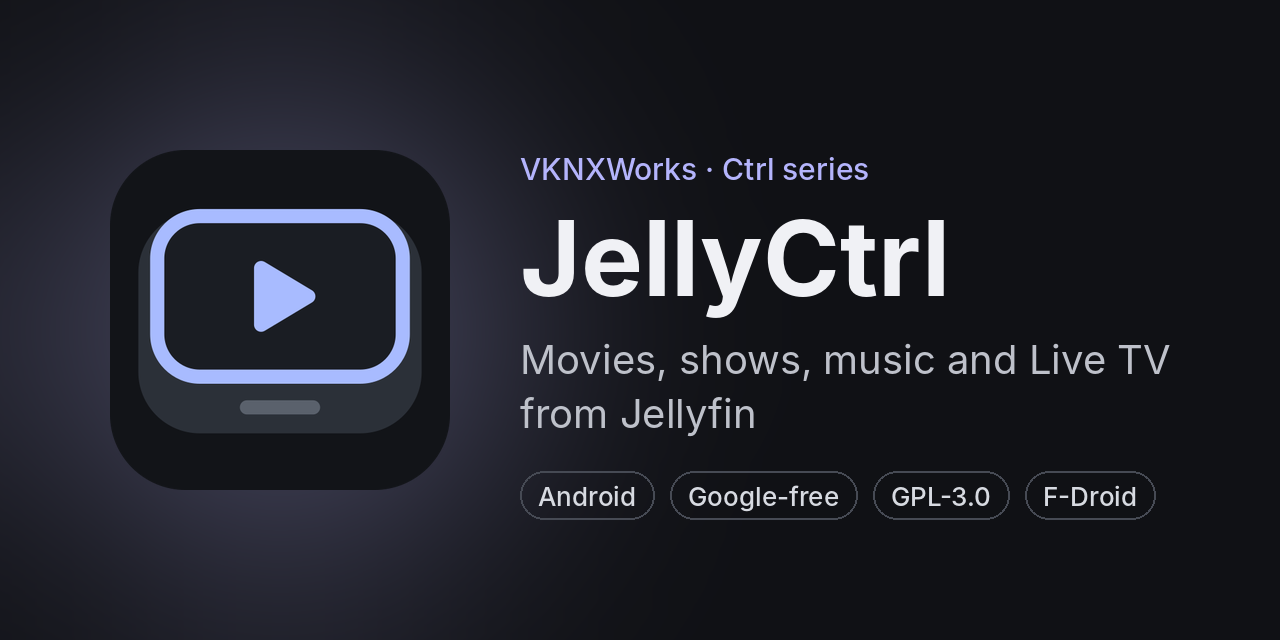
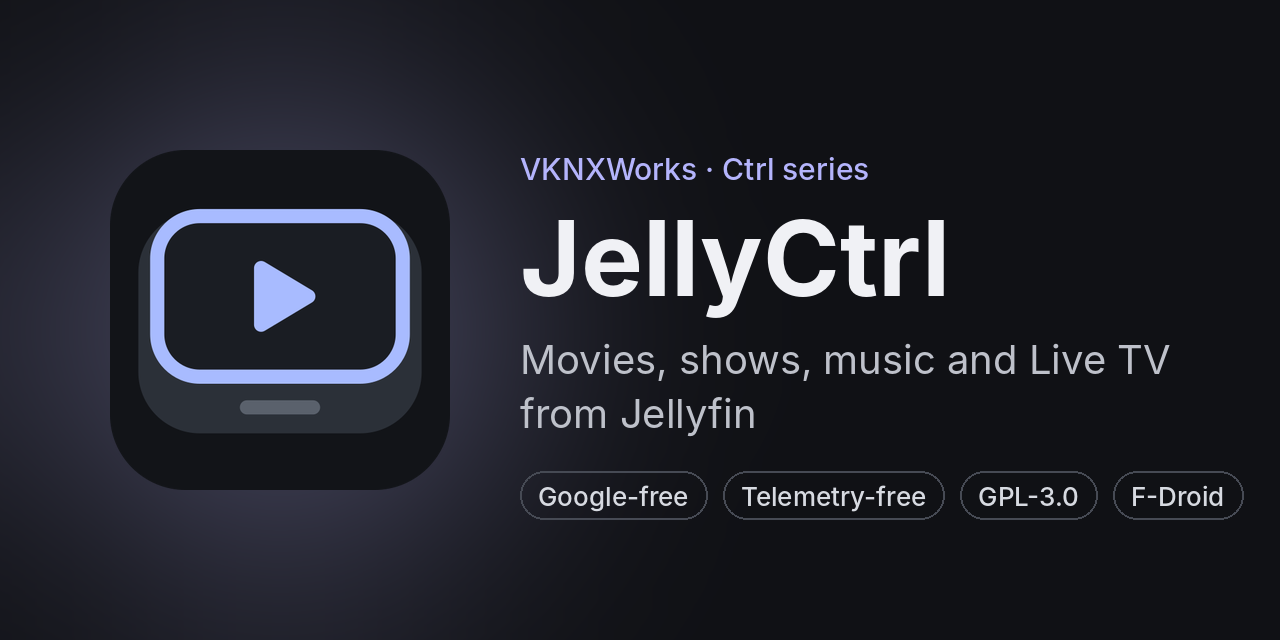
JellyCtrl 0.1.24: remove the usage stats, telemetry-free
Claude-Session: https://claude.ai/code/session_01EwhEpZ1DKRJef9Cqeiv5g2

Changed region(s): [[0.4062, 0.7188, 0.9688, 0.8125]]

diff --git a/app/src/main/java/com/vknxworks/jellyctrl/data/settings/AppSettings.kt b/app/src/main/java/com/vknxworks/jellyctrl/data/settings/AppSettings.kt
@@ -13,6 +13,7 @@ import kotlinx.coroutines.flow.StateFlow
 import kotlinx.coroutines.flow.Flow
 import kotlinx.coroutines.flow.map
 import kotlinx.coroutines.flow.stateIn
+import kotlinx.coroutines.launch
 
 enum class PlayerEngineChoice(val label: String) {
     AUTO("Automatic (Media3, mpv when needed)"),
@@ -42,10 +43,6 @@ data class AppSettings(
     val hwDecoding: Boolean = true,
     /** Server dashboard screens are hidden from screenshots, screen recording and the recent-apps preview. */
     val protectAdminScreens: Boolean = true,
-    /** Opt-in anonymous usage stats (off until the user says yes). */
-    val usageStats: Boolean = false,
-    /** Whether the one-time usage stats question has been answered. */
-    val usageStatsAsked: Boolean = false,
 ) {
     fun maxBitrateBps(onCellular: Boolean): Long {
         val mbps = if (onCellular && cellularBitrateMbps > 0) cellularBitrateMbps else maxBitrateMbps
@@ -70,13 +67,18 @@ class SettingsRepository(private val context: Context, scope: CoroutineScope) {
         val musicBitrate = intPreferencesKey("music_bitrate")
         val hwDec = booleanPreferencesKey("hw_decoding")
         val protectAdmin = booleanPreferencesKey("protect_admin_screens")
-        val usageStats = booleanPreferencesKey("usage_stats")
-        val usageStatsAsked = booleanPreferencesKey("usage_stats_asked")
+        /** Left over from the optional stats removed in 0.1.24; deleted at start and on every save. */
+        val legacy = listOf(booleanPreferencesKey("usage_stats"), booleanPreferencesKey("usage_stats_asked"))
     }
 
     val settings: StateFlow<AppSettings> = context.appDataStore.data
         .map { it.toSettings() }
         .stateIn(scope, SharingStarted.Eagerly, AppSettings())
+
+    init {
+        // Delete what the removed optional stats stored, so nothing of them stays on the phone.
+        scope.launch { context.appDataStore.edit { p -> K.legacy.forEach { p.remove(it) } } }
+    }
 
     /** The stored settings as they're read and changed, without [settings]' placeholder defaults at start-up. */
     val stored: Flow<AppSettings> = context.appDataStore.data.map { it.toSettings() }
@@ -97,8 +99,6 @@ class SettingsRepository(private val context: Context, scope: CoroutineScope) {
         musicBitrateKbps = this[K.musicBitrate] ?: 320,
         hwDecoding = this[K.hwDec] ?: true,
         protectAdminScreens = this[K.protectAdmin] ?: true,
-        usageStats = this[K.usageStats] ?: false,
-        usageStatsAsked = this[K.usageStatsAsked] ?: false,
     )
 
     suspend fun update(transform: (AppSettings) -> AppSettings) {
@@ -119,8 +119,7 @@ class SettingsRepository(private val context: Context, scope: CoroutineScope) {
             p[K.musicBitrate] = s.musicBitrateKbps
             p[K.hwDec] = s.hwDecoding
             p[K.protectAdmin] = s.protectAdminScreens
-            p[K.usageStats] = s.usageStats
-            p[K.usageStatsAsked] = s.usageStatsAsked
+            K.legacy.forEach { p.remove(it) }
         }
     }
 

diff --git a/app/src/main/java/com/vknxworks/jellyctrl/ui/nav/AppRoot.kt b/app/src/main/java/com/vknxworks/jellyctrl/ui/nav/AppRoot.kt
@@ -95,7 +95,6 @@ import com.vknxworks.jellyctrl.ui.settings.ProfileScreen
 import com.vknxworks.jellyctrl.ui.library.LibrariesScreen
 import com.vknxworks.jellyctrl.ui.settings.QuickConnectApproveScreen
 import com.vknxworks.jellyctrl.ui.settings.SettingsScreen
-import com.vknxworks.jellyctrl.ui.settings.UsageStatsPrompt
 
 @Composable
 fun AppRoot() {
@@ -131,14 +130,6 @@ private fun MainScaffold() {
     val settings by context.container.settings.settings.collectAsStateWithLifecycle()
     val onAdminScreen = dest != null && ADMIN_ROUTES.any { dest.hasRoute(it) }
     ProtectWindow(onAdminScreen && settings.protectAdminScreens)
-
-    // Usage stats (only if the user opted in): the kind of screen, never its contents or the item it shows.
-    val entryId = backStack?.id
-    val screen = dest?.route?.let(::screenName)
-    LaunchedEffect(entryId) {
-        if (screen != null) context.container.telemetry.track("screen_viewed", mapOf("screen" to screen))
-    }
-    UsageStatsPrompt()
 
     // "Play in JellyCtrl" from ArrCtrl: find the movie or episode in this library and open its page.
     // One long-lived collector: clearing the pending link must not restart (and so cancel) a lookup in progress.
@@ -272,13 +263,6 @@ private fun PhoneLayout(
         }
     }
 }
-
-/**
- * "com.vknxworks.jellyctrl.ui.nav.ItemRoute/{id}?…" -> "Item". Only the route's class name: arguments (item IDs,
- * library and person names, titles) are dropped.
- */
-private fun screenName(route: String): String =
-    route.substringBefore('/').substringBefore('?').substringAfterLast('.').removeSuffix("Route")
 
 /** Server dashboard screens show API keys, logs, users and server settings. */
 private val ADMIN_ROUTES = listOf(

diff --git a/app/src/main/java/com/vknxworks/jellyctrl/ui/nav/Navigator.kt b/app/src/main/java/com/vknxworks/jellyctrl/ui/nav/Navigator.kt
@@ -57,7 +57,6 @@ class Navigator(val nav: NavHostController, private val context: Context) {
 
     /** Start playback. Video opens the player; audio goes to the music queue. */
     fun play(item: BaseItemDto, fromStart: Boolean = false) {
-        trackPlayback(item)
         when {
             item.type == "Program" -> item.channelId?.let { PlayerActivity.start(context, it, startMs = 0) }
             item.mediaType == "Audio" || item.type in AUDIO_CONTAINERS -> context.container.music.playItem(item)
@@ -73,23 +72,11 @@ class Navigator(val nav: NavHostController, private val context: Context) {
     }
 
     fun shuffle(item: BaseItemDto) {
-        trackPlayback(item, shuffle = true)
         if (item.mediaType == "Audio" || item.type in AUDIO_CONTAINERS || item.collectionType == "music") {
             context.container.music.playContainer(item, shuffle = true)
         } else {
             PlayerActivity.startContainer(context, item.id, shuffle = true)
         }
-    }
-
-    /** Only what kind of thing started playing, never which item. */
-    private fun trackPlayback(item: BaseItemDto, shuffle: Boolean = false) {
-        val kind = when {
-            item.type == "Program" || item.type == "TvChannel" -> "live_tv"
-            item.mediaType == "Audio" || item.type in AUDIO_CONTAINERS || item.collectionType == "music" -> "music"
-            item.type == "Photo" -> return
-            else -> "video"
-        }
-        context.container.telemetry.track("playback_started", mapOf("kind" to kind))
     }
 
     companion object {

diff --git a/app/src/main/java/com/vknxworks/jellyctrl/ui/settings/SettingsScreen.kt b/app/src/main/java/com/vknxworks/jellyctrl/ui/settings/SettingsScreen.kt
@@ -136,16 +136,6 @@ fun SettingsScreen() {
                 }
             }
 
-            if (c.telemetry.available) {
-                Group("Usage stats", footer = USAGE_STATS_DESCRIPTION) {
-                    GroupSwitch(
-                        "Share anonymous usage stats",
-                        "Helps decide what to improve next",
-                        s.usageStats,
-                    ) { v -> update { it.copy(usageStats = v, usageStatsAsked = true) } }
-                }
-            }
-
             Group("Appearance") {
                 GroupChoice("Theme", ThemeChoice.entries.map { it to it.label }, s.theme) { v -> update { it.copy(theme = v) } }
                 GroupSwitch("Use wallpaper colours", "Replaces the default colours with ones from your wallpaper", s.dynamicColor) { v ->

diff --git a/app/src/main/java/com/vknxworks/jellyctrl/AppContainer.kt b/app/src/main/java/com/vknxworks/jellyctrl/AppContainer.kt
@@ -8,7 +8,6 @@ import com.vknxworks.jellyctrl.data.api.ServerAuthInterceptor
 import com.vknxworks.jellyctrl.data.auth.SessionManager
 import com.vknxworks.jellyctrl.data.download.DownloadRepository
 import com.vknxworks.jellyctrl.data.settings.SettingsRepository
-import com.vknxworks.jellyctrl.data.telemetry.Telemetry
 import com.vknxworks.jellyctrl.music.MusicController
 import kotlinx.coroutines.CoroutineScope
 import kotlinx.coroutines.Dispatchers
@@ -48,7 +47,6 @@ class AppContainer(val context: Context) {
 
     val sessions = SessionManager(context, http, appScope)
     val settings = SettingsRepository(context, appScope)
-    val telemetry = Telemetry(context, settings, appScope)
     val downloads = DownloadRepository(context, appScope)
     val music by lazy { MusicController(context, this) }
 

diff --git a/app/src/main/java/com/vknxworks/jellyctrl/MainActivity.kt b/app/src/main/java/com/vknxworks/jellyctrl/MainActivity.kt
@@ -29,7 +29,6 @@ class MainActivity : ComponentActivity() {
         enableEdgeToEdge()
         val c = container
         if (savedInstanceState == null) {
-            c.telemetry.appOpened()
             ExternalLink.from(intent)?.let { c.pendingLink.value = it }
         }
         setContent {

diff --git a/README.md b/README.md
@@ -2,7 +2,7 @@
 
 **Your Jellyfin library, with a player that plays everything.**
 
-[![Latest release](https://img.shields.io/github/v/release/VoidedKN0X/JellyCtrl?label=download)](https://github.com/VoidedKN0X/JellyCtrl/releases/latest) ![Android 13+](https://img.shields.io/badge/Android-13%2B-3DDC84?logo=android&logoColor=white) [![License: GPL-3.0](https://img.shields.io/badge/license-GPL--3.0-blue)](LICENSE) [![Sponsor](https://img.shields.io/badge/sponsor-GitHub-ea4aaa?logo=githubsponsors&logoColor=white)](https://github.com/sponsors/VoidedKN0X)
+[![Latest release](https://img.shields.io/github/v/release/VoidedKN0X/JellyCtrl?label=download)](https://github.com/VoidedKN0X/JellyCtrl/releases/latest) ![Android 13+](https://img.shields.io/badge/Android-13%2B-3DDC84?logo=android&logoColor=white) [![License: GPL-3.0](https://img.shields.io/badge/license-GPL--3.0-blue)](LICENSE) ![Telemetry-free](https://img.shields.io/badge/telemetry-none-brightgreen) [![Sponsor](https://img.shields.io/badge/sponsor-GitHub-ea4aaa?logo=githubsponsors&logoColor=white)](https://github.com/sponsors/VoidedKN0X)
 
 JellyCtrl is a native Android app for [Jellyfin](https://jellyfin.org). Watch movies and shows, listen to music, watch Live TV and manage your server, on phones, tablets and foldables.
 
@@ -59,17 +59,9 @@ If the Obtainium button doesn't open the app, add `https://github.com/VoidedKN0X
 
 Favourites, downloads, Live TV, remote control, **Settings**, accounts and the server dashboard are behind your profile picture at the top right.
 
-## Usage stats
+## Privacy
 
-JellyCtrl can share anonymous usage stats, **only if you say yes**. It asks once after you sign in, and you can change it any time in **Settings > Usage stats**.
-
-- **Shared:** which screens you open (the kind of screen, never which item, library or person), whether you start video, music or Live TV, the app version, Android version, phone model, language, phone or tablet, and your video player setting.
-- **Never shared:** your server address, username or passwords, what you watch, listen to or search for, or any ID that stays the same between sessions.
-- **Where:** VKNXWorks' own self-hosted [Aptabase](https://aptabase.com) server. Nothing goes to Google or analytics companies. Like any website, the server sees your IP address; Aptabase uses it only to work out the country and doesn't store it.
-
-Builds from source don't include the stats key, so they can't send anything and the setting is hidden. The code is in [`Telemetry.kt`](app/src/main/java/com/vknxworks/jellyctrl/data/telemetry/Telemetry.kt).
-
-Apart from these opt-in stats, JellyCtrl only talks to your own Jellyfin server. Artwork comes through your server, never straight from sites like TMDB; trailers and links to sites like IMDb only open in your browser when you tap them.
+**Telemetry-free.** JellyCtrl has no analytics, crash reporting, usage stats or tracking of any kind. It only talks to your own Jellyfin server. Artwork comes through your server, never straight from sites like TMDB; trailers and links to sites like IMDb only open in your browser when you tap them.
 
 ## Build from source
 

diff --git a/CHANGELOG.md b/CHANGELOG.md
@@ -4,11 +4,16 @@ What changed in each JellyCtrl release. Every release on the [Releases page](htt
 
 To publish a new version: bump `versionCode` and `versionName` in `app/build.gradle.kts`, add a section here, and push to `main`. Pushes without a version bump only build; they don't make a release.
 
-## Unreleased
+## v0.1.24 (2026-10-20)
+
+### Privacy
+
+- **No more usage stats: JellyCtrl is now telemetry-free.** The optional anonymous usage stats are gone completely, along with the Usage stats setting and the one-time question. The app no longer contacts VKNXWorks' stats server at all, and the settings it used are deleted from your phone when you update. JellyCtrl now only talks to your own Jellyfin server.
 
 ### Changed
 
 - **README**: a Screenshots section (screenshots are coming soon), and a link preview image (`.github/assets/social-preview.png`) with JellyCtrl's icon, name and summary, for when the repo is shared on Reddit, Discord or elsewhere
+- **README**: a Privacy section and a Telemetry-free badge replace the Usage stats section, and the link preview image has a Telemetry-free tag
 
 ## v0.1.23 (2026-10-19)
 
